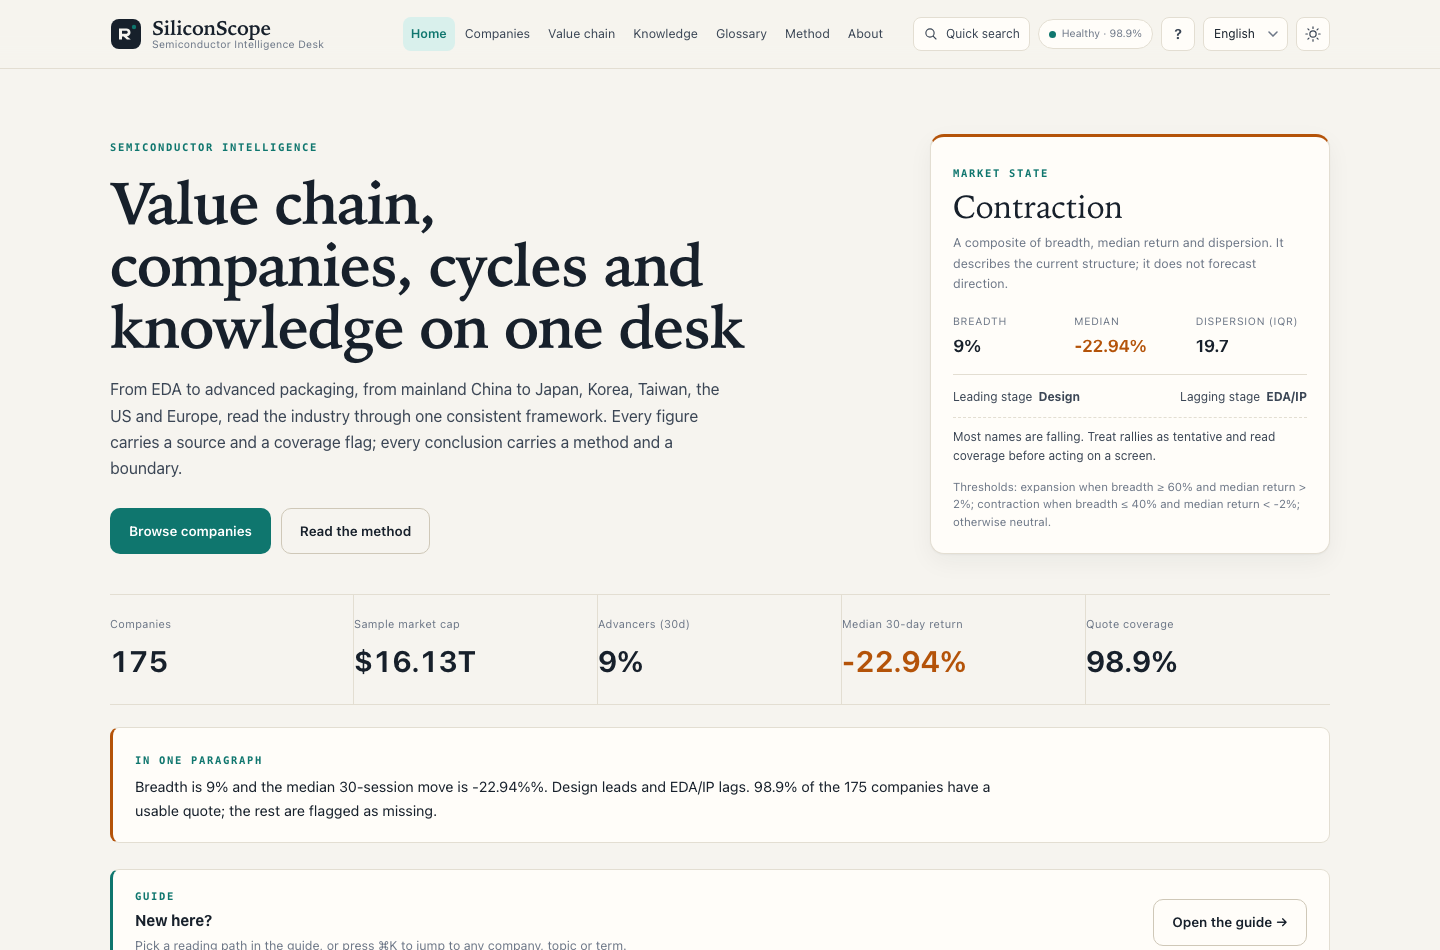
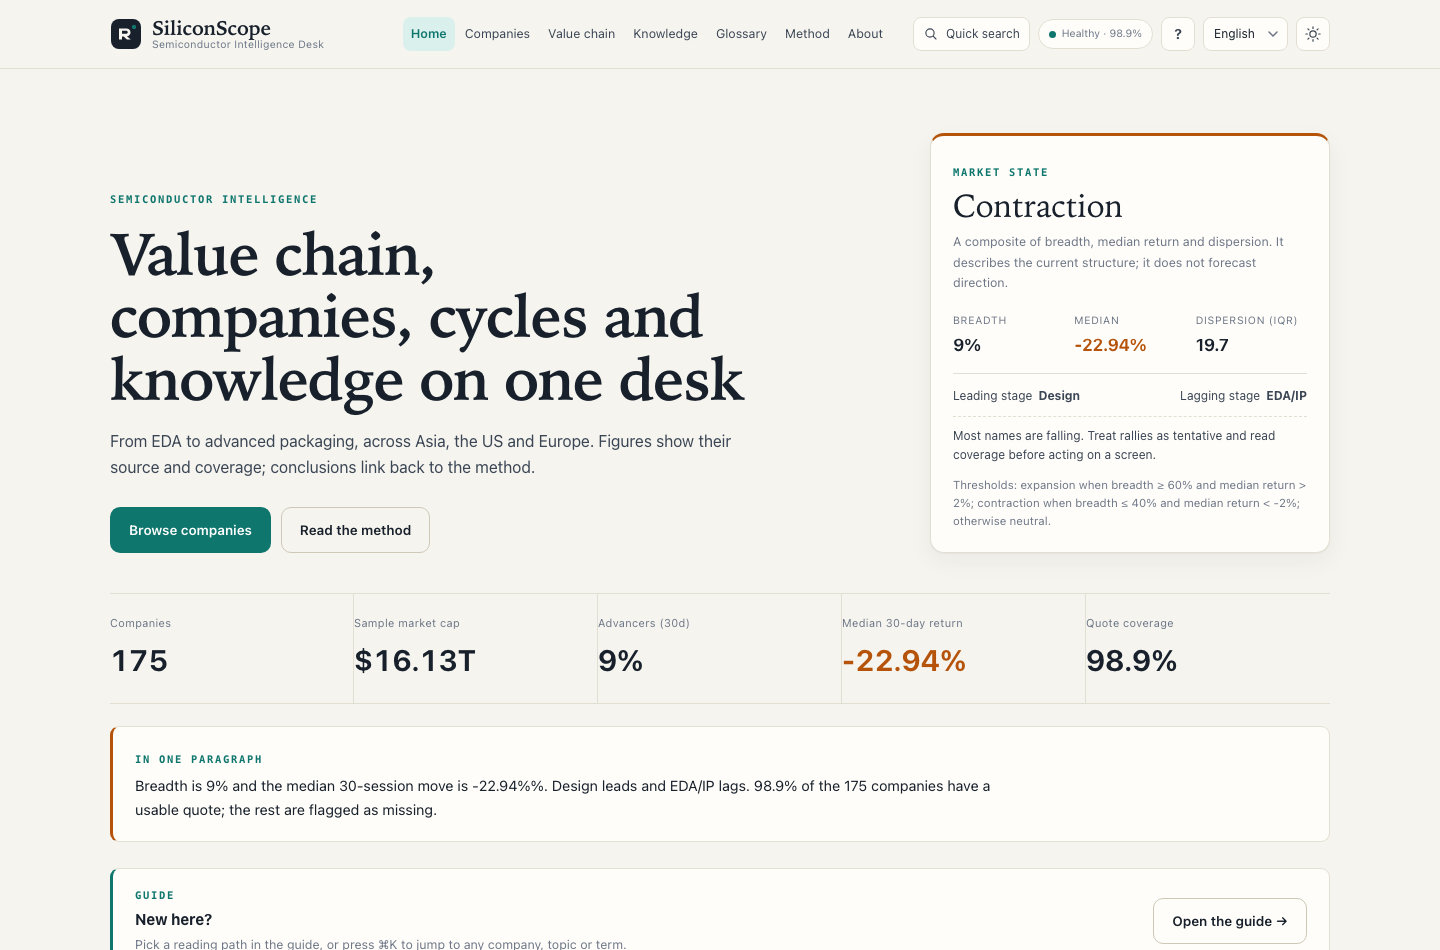
copy: plain language on the site and in the README
- remove the version-by-version rewrite table from the README
- replace manifesto-style openings with short, direct descriptions
- keep AI only where it is the industry subject, not as project metadata

diff --git a/README_de.md b/README_de.md
@@ -17,7 +17,7 @@ SiliconScope deckt **8 Wertschöpfungsstufen, 13 Hauptsitzregionen und 175 börs
 
 ## Zweck
 
-SiliconScope ist ein Research-Desk, kein Kurs-Terminal und kein Werkzeug zur Aktienauswahl. Der Desk hilft dabei, in 10–30 Minuten eine strukturelle Sicht auf eine Wertschöpfungsstufe oder ein Unternehmen aufzubauen, und macht transparent, wie vollständig die Daten hinter dieser Sicht sind. Kurse, Klassifikationen, ausführliche Erläuterungen und die Methodik der Scores werden gemeinsam veröffentlicht, sodass sich jede Zahl auf eine Snapshot-Datei und eine Felddefinition zurückführen lässt.
+SiliconScope ist ein statisches Dashboard für die Halbleiter-Wertschöpfungskette. Es bündelt Unternehmenspositionen, Kurse, ausführliche Notizen und die Scoring-Regeln, sodass man von der gesamten Kette zu einem einzelnen Unternehmen wechseln kann, ohne den Datenkontext zu verlieren.
 
 ---
 
@@ -36,20 +36,6 @@ SiliconScope ist ein Research-Desk, kein Kurs-Terminal und kein Werkzeug zur Akt
 | ![Leitfaden](documentation/screenshots/guide.png) | ![Datenstatus](documentation/screenshots/status.png) |
 
 ---
-
-## Warum der Neuaufbau
-
-Das Original war ein chinesisches Dashboard mit Fokus auf A-Aktien: ein einziges Skript mit 1.000 Zeilen, per CDN geladene Tailwind- und Plotly-Bibliotheken, als Build-Fehler behandelte Scrape-Fehler und nicht offengelegte Scoring-Regeln. v2 hat die Produktlogik und die Engineering-Struktur neu aufgebaut. v3 stellt die Standardsprache auf Englisch um, ergänzt Deutsch, erweitert die Abdeckung von 124 auf 175 Unternehmen und macht die viersprachigen Inhalte zu einem gepflegten Teil des Repositorys.
-
-| Dimension | v1 | v2 | v3 (aktuell) |
-| --- | --- | --- | --- |
-| Abdeckung | Chinesische A-Aktien + 2 Hongkong-Notierungen | 124 Unternehmen, 7 Börsenmärkte | **175 Unternehmen, 13 Hauptsitzregionen, 7 Börsenmärkte** |
-| Sprachen | Chinesisch / Englisch / Deutsch | Chinesisch / Englisch / Japanisch | **Englisch (Standard) / Chinesisch / Japanisch / Deutsch** |
-| Wissen | Gescrapte Enzyklopädieabsätze | 9 Themen × 3 Sprachen | **12 Themen × 4 Sprachen + 52 viersprachige Glossarbegriffe** |
-| Scoring | Nicht offengelegte Gewichtungen | Veröffentlichte Methodik | Veröffentlichte Methodik + Datenabdeckung + Risikoflags |
-| Frontend | CDN + Rendering zur Laufzeit | Statisches HTML/SVG | Statisches HTML/SVG, keine Drittanbieter-Assets |
-| Daten | Scrape-Fehler = Build-Fehler | Snapshot-Fallback | Snapshot-Fallback + Veraltet-Flags + Abdeckung |
-| Dokumentation | Keine | Überwiegend Chinesisch | **Jedes Dokument in `_en` / `_cn` / `_jp` / `_de`** |
 
 ## Funktionen
 

diff --git a/README.md b/README.md
@@ -18,7 +18,7 @@ SiliconScope covers **8 value-chain stages, 13 headquarters regions and 175 list
 
 ## Purpose
 
-SiliconScope is a research desk, not a quote terminal or a stock picker. It helps a reader build a structural view of one value-chain stage or one company in 10–30 minutes, and makes clear how complete the data behind that view is. Quotes, classifications, long-form explanations and the scoring method are published together, so every number can be traced back to a snapshot file and a field definition.
+SiliconScope is a static dashboard for the semiconductor value chain. It brings company positions, quotes, long-form notes and the scoring rules together, so a reader can move from the whole chain to a single company without losing the data context.
 
 ---
 
@@ -38,20 +38,6 @@ SiliconScope is a research desk, not a quote terminal or a stock picker. It help
 
 
 ---
-
-## Why the rewrite
-
-The original was a Chinese dashboard focused on A-shares: a 1,000-line single-file script, Tailwind and Plotly loaded from CDNs, scrape failures treated as build failures, and scoring rules that were not disclosed. v2 rebuilt the product logic and the engineering structure. v3 moves the default language to English, adds German, widens coverage from 124 to 175 companies, and makes four-language content a maintained part of the repository.
-
-| Dimension | v1 | v2 | v3 (current) |
-| --- | --- | --- | --- |
-| Coverage | China A-shares + 2 Hong Kong listings | 124 companies, 7 listing markets | **175 companies, 13 headquarters regions, 7 listing markets** |
-| Languages | Chinese / English / German | Chinese / English / Japanese | **English (default) / Chinese / Japanese / German** |
-| Knowledge | Scraped encyclopedia paragraphs | 9 topics × 3 languages | **12 topics × 4 languages + 52 four-language glossary terms** |
-| Scoring | Undisclosed weights | Published method | Published method + data coverage + risk flags |
-| Front end | CDN + runtime rendering | Static HTML/SVG | Static HTML/SVG, zero third-party assets |
-| Data | Scrape failure = build failure | Snapshot fallback | Snapshot fallback + stale flags + coverage |
-| Documentation | None | Mostly Chinese | **every document in `_en` / `_cn` / `_jp` / `_de`** |
 
 ## Features
 

diff --git a/README_en.md b/README_en.md
@@ -18,7 +18,7 @@ SiliconScope covers **8 value-chain stages, 13 headquarters regions and 175 list
 
 ## Purpose
 
-SiliconScope is a research desk, not a quote terminal or a stock picker. It helps a reader build a structural view of one value-chain stage or one company in 10–30 minutes, and makes clear how complete the data behind that view is. Quotes, classifications, long-form explanations and the scoring method are published together, so every number can be traced back to a snapshot file and a field definition.
+SiliconScope is a static dashboard for the semiconductor value chain. It brings company positions, quotes, long-form notes and the scoring rules together, so a reader can move from the whole chain to a single company without losing the data context.
 
 ---
 
@@ -38,20 +38,6 @@ SiliconScope is a research desk, not a quote terminal or a stock picker. It help
 
 
 ---
-
-## Why the rewrite
-
-The original was a Chinese dashboard focused on A-shares: a 1,000-line single-file script, Tailwind and Plotly loaded from CDNs, scrape failures treated as build failures, and scoring rules that were not disclosed. v2 rebuilt the product logic and the engineering structure. v3 moves the default language to English, adds German, widens coverage from 124 to 175 companies, and makes four-language content a maintained part of the repository.
-
-| Dimension | v1 | v2 | v3 (current) |
-| --- | --- | --- | --- |
-| Coverage | China A-shares + 2 Hong Kong listings | 124 companies, 7 listing markets | **175 companies, 13 headquarters regions, 7 listing markets** |
-| Languages | Chinese / English / German | Chinese / English / Japanese | **English (default) / Chinese / Japanese / German** |
-| Knowledge | Scraped encyclopedia paragraphs | 9 topics × 3 languages | **12 topics × 4 languages + 52 four-language glossary terms** |
-| Scoring | Undisclosed weights | Published method | Published method + data coverage + risk flags |
-| Front end | CDN + runtime rendering | Static HTML/SVG | Static HTML/SVG, zero third-party assets |
-| Data | Scrape failure = build failure | Snapshot fallback | Snapshot fallback + stale flags + coverage |
-| Documentation | None | Mostly Chinese | **every document in `_en` / `_cn` / `_jp` / `_de`** |
 
 ## Features
 

diff --git a/README_cn.md b/README_cn.md
@@ -2,7 +2,7 @@
 
 **全球半导体产业链的四语研究看板** · A four-language research desk for the global semiconductor value chain.
 
-覆盖 **8 个产业链环节、13 个总部地区、175 家上市公司**，把行情、结构、知识与方法放在同一张可核查的桌面上。所有页面为构建期生成的静态文件，不依赖任何 CDN 或前端框架。
+覆盖 **8 个产业链环节、13 个总部地区、175 家上市公司**。把公司位置、行情、长文说明与评分规则放在一起，方便从整条链走到单家公司。所有页面为构建期生成的静态文件，不依赖任何 CDN 或前端框架。
 
 - 站点（默认英文）：<https://cxy2696.github.io/semiconductor/>
 - 中文站点：<https://cxy2696.github.io/semiconductor/zh/>
@@ -30,20 +30,6 @@
 
 
 ---
-
-## 为什么重做
-
-原版是一个以 A 股为主的中文看板：1,000 行单文件脚本、Tailwind/Plotly CDN、把抓取失败当作构建失败、评分口径不透明。v2 重做了产品逻辑与工程结构；v3 进一步把默认语言切换为英文，补齐德语，扩大覆盖并增加内容维护机制。
-
-| 维度 | v1 | v2 | v3（当前） |
-| --- | --- | --- | --- |
-| 覆盖 | 中国 A 股 + 2 只港股 | 124 家，7 个上市地 | **175 家，13 个总部地区** |
-| 语言 | 中 / 英 / 德 | 中 / 英 / 日 | **英（默认）/ 中 / 日 / 德** |
-| 知识 | 抓取百科段落 | 9 篇 × 3 语 | **12 篇 × 4 语 + 52 条四语术语** |
-| 评分 | 不公开权重 | 公开方法 | 公开方法 + 数据完整度 + 风险标签 |
-| 前端 | CDN + 运行时渲染 | 静态 HTML/SVG | 静态 HTML/SVG，零第三方资源 |
-| 数据 | 抓取失败即失败 | 快照兜底 | 快照兜底 + 过期标记 + 覆盖率 |
-| 文档 | 无 | 中文为主 | **每份文档均有 `_en` / `_cn` / `_jp` / `_de` 四版** |
 
 ## 功能
 

diff --git a/documentation/ROADMAP_de.md b/documentation/ROADMAP_de.md
@@ -119,7 +119,7 @@ Prinzip: Zuerst **Prüfbarkeit** und **Wartbarkeit** sichern, bevor Abdeckung od
 
 - Echtzeit-Level-2-Kurse, Handelschnittstellen oder Positionsempfehlungen.
 - Paywalls, Werbung oder Nutzer-Tracking.
-- Von LLMs erzeugte Anlagekonklusionen ohne redaktionelles Review.
+- Automatisch erzeugte Anlagekonklusionen ohne redaktionelles Review.
 - Unternehmen mit nicht verifizierbaren Daten nur zur Erhöhung der Abdeckung aufnehmen.
 
 ## Prioritätsregel

diff --git a/documentation/ROADMAP_jp.md b/documentation/ROADMAP_jp.md
@@ -119,7 +119,7 @@
 
 - リアルタイムの Level-2 気配、取引インターフェース、ポジションの助言。
 - ペイウォール、広告、ユーザートラッキング。
-- 編集レビューなしの LLM による投資結論の生成。
+- 編集レビューなしに自動生成された投資結論。
 - カバレッジを増やすためだけに、検証できないデータの企業を追加すること。
 
 ## 優先順位のルール

diff --git a/documentation/ROADMAP_en.md b/documentation/ROADMAP_en.md
@@ -119,7 +119,7 @@ Principle: secure **auditability** and **maintainability** before expanding cove
 
 - Real-time Level-2 quotes, trading interfaces or position advice.
 - Paywalls, advertising or user tracking.
-- LLM-generated investment conclusions without editorial review.
+- Automated investment conclusions without editorial review.
 - Adding companies with unverifiable data just to increase coverage.
 
 ## Priority rule

diff --git a/documentation/ROADMAP_cn.md b/documentation/ROADMAP_cn.md
@@ -119,7 +119,7 @@
 
 - 实时 Level-2 行情、交易接口或仓位建议。
 - 付费墙、广告或用户追踪。
-- 未经编辑审核、由 LLM 生成的投资结论。
+- 未经编辑审核、由自动化流程生成的投资结论。
 - 为了扩大覆盖而加入数据无法验证的公司。
 
 ## 优先级规则
